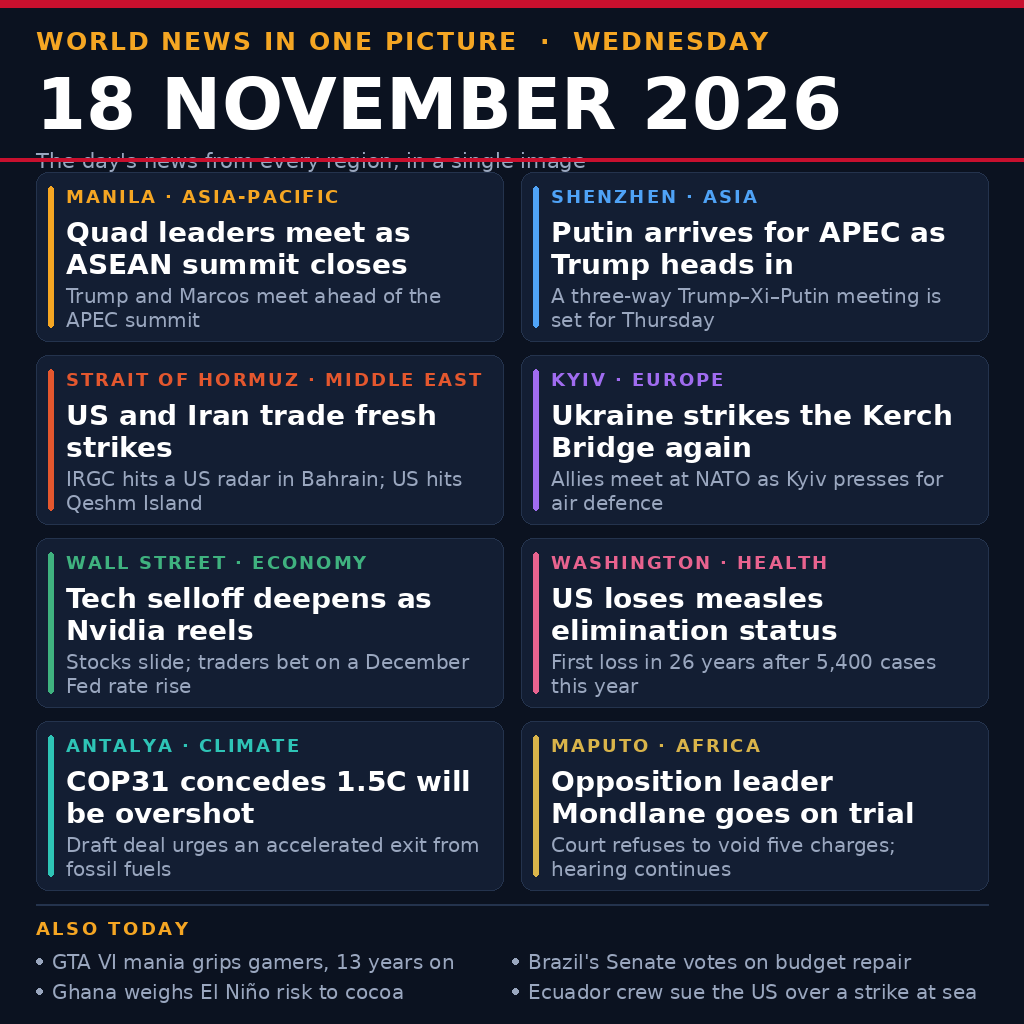
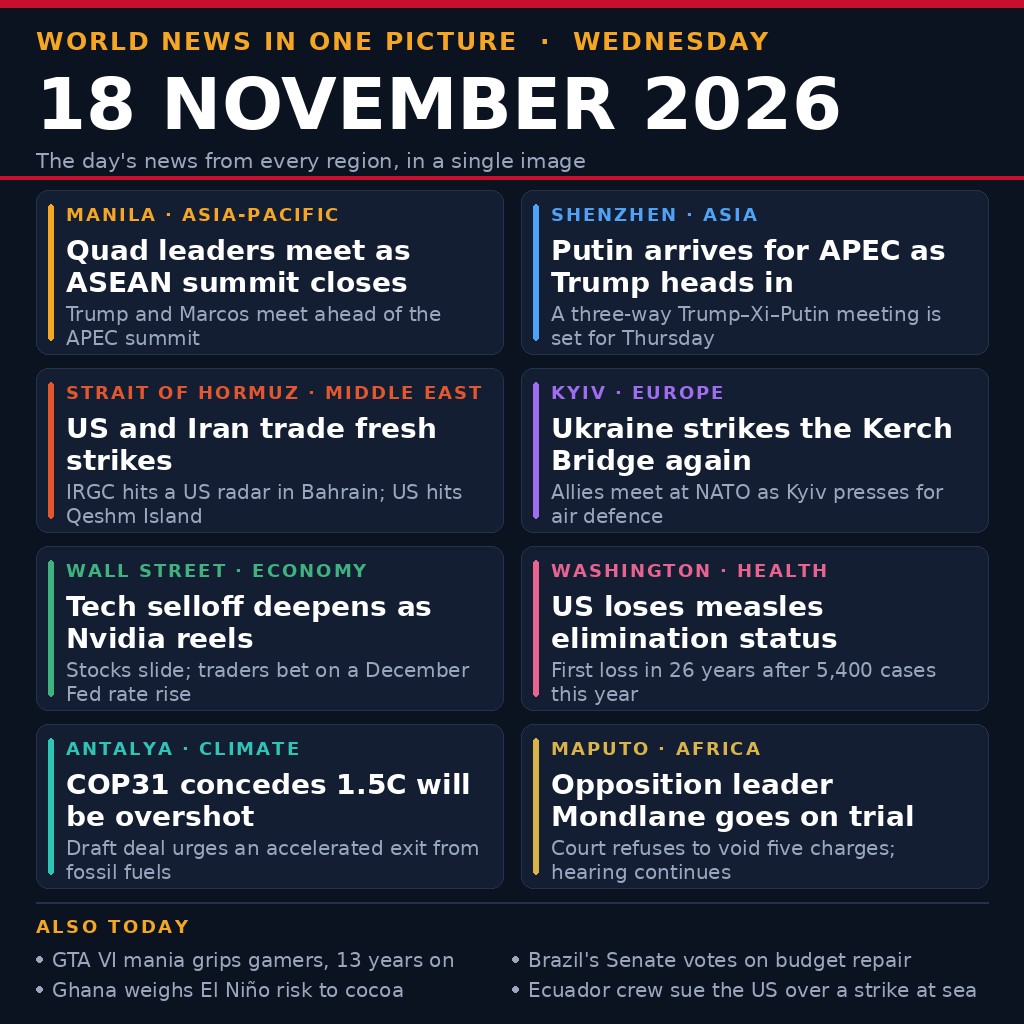
Stop the header rule cutting the subtitle, and keep the README size honest
The red rule sat at y158 while the subtitle's glyphs run to about y168, so it
struck through the line. The header now ends at y179 and the story grid starts
at y190; the layout assertions in the renderer cover the header band too.
README's byte count follows the new image (133,883).

Changed region(s): [[0.0, 0.1562, 1.0, 1.0]]

diff --git a/tools/make_entry_image.py b/tools/make_entry_image.py
@@ -169,11 +169,11 @@ def render() -> Image.Image:
     sub = font(REGULAR, 21)
     d.text((MARGIN, 148), "The day's news from every region, in a single image",
            font=sub, fill=MUTED)
-    d.rectangle([0, 158, W, 161], fill=RED)
+    d.rectangle([0, 176, W, 179], fill=RED)
 
     # Eight story cards, two across and four down, with the footer pinned to
     # a fixed budget so nothing runs off the bottom of the canvas.
-    top, rows, gap = 172, 4, 14
+    top, rows, gap = 190, 4, 14
     foot = 134                      # separator, "ALSO TODAY", two item rows
     card_h = (H - top - foot - (rows - 1) * gap) // rows
     card_w = (W - 2 * MARGIN - GUTTER) // 2

diff --git a/README.md b/README.md
@@ -25,7 +25,7 @@ and one line of detail —
 A footer lists four more of the day's stories (GTA VI, Brazil's budget vote,
 Ghana's cocoa warning, Ecuador's suit against the US) so the picture is not one
 region's or one beat's. Nothing is drawn from outside the repository: the file
-is a 1024x1024 PNG, 132,386 bytes, well inside the gate's 1 MiB and 1024px caps.
+is a 1024x1024 PNG, 133,883 bytes, well inside the gate's 1 MiB and 1024px caps.
 
 ## Run it
 
